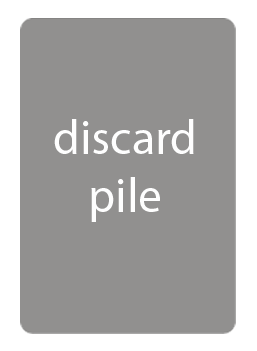
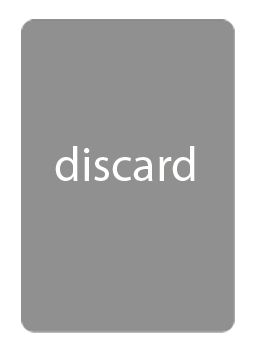
updated draw area and discard area images

diff --git a/src/components/Game.js b/src/components/Game.js
@@ -107,7 +107,7 @@ class Game extends Component {
         <Deck></Deck>
         </button>
         <div>{this.state.cards}</div>
-        <img alt="playArea" src="appImages/playAreaAlt.png"></img>
+        <img alt="drawPile" src="appImages/drawPile.png"></img>
         <img alt="discardOutline" src="appImages/discardOutline.png"></img>
         </div>
         
